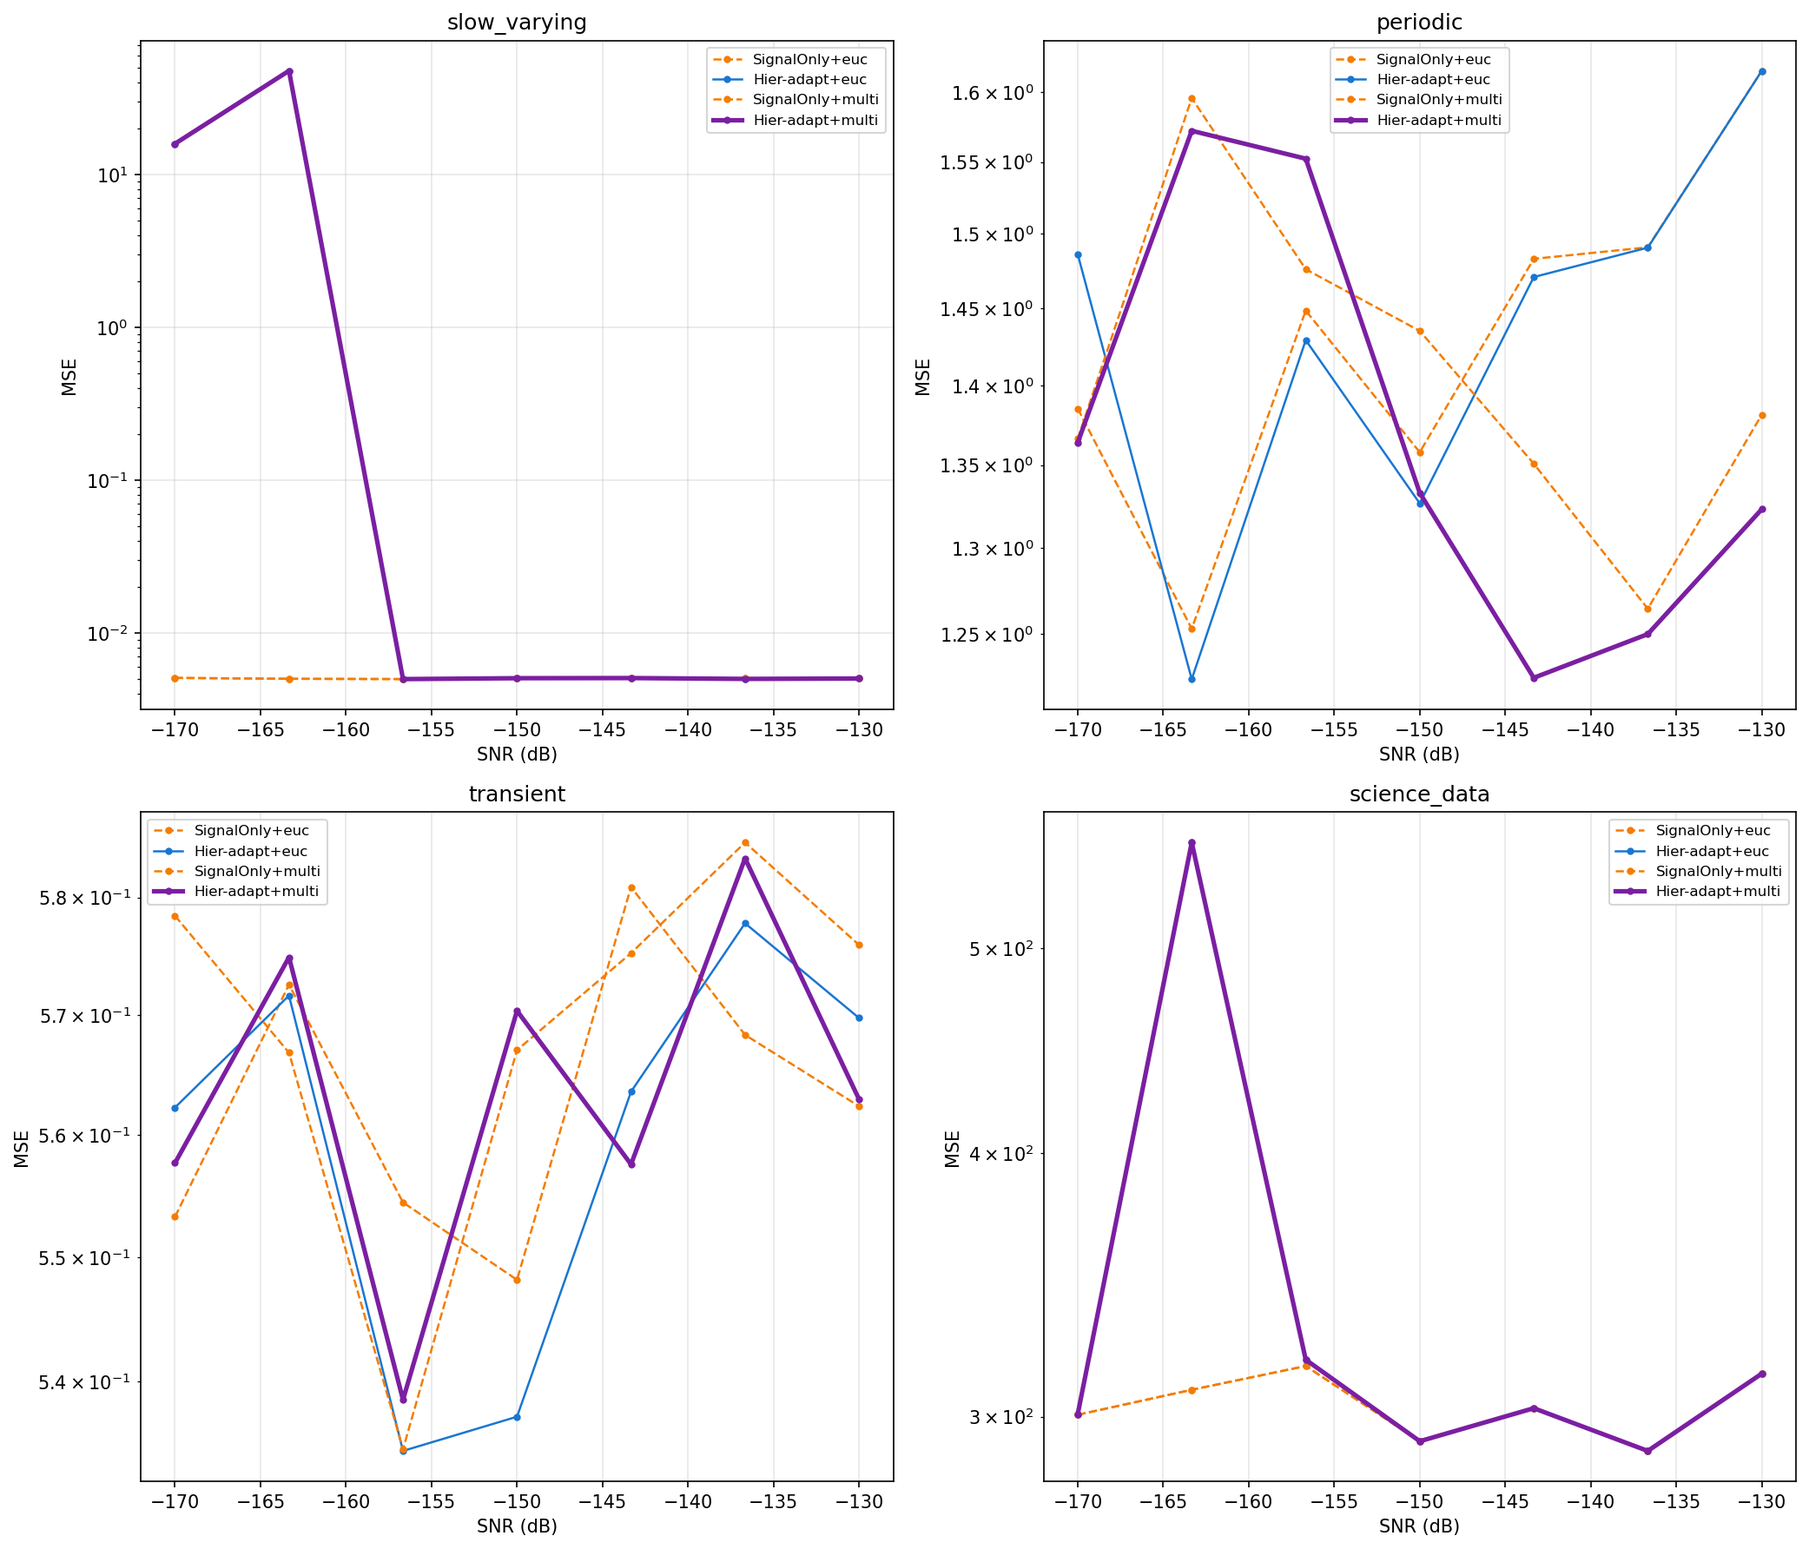
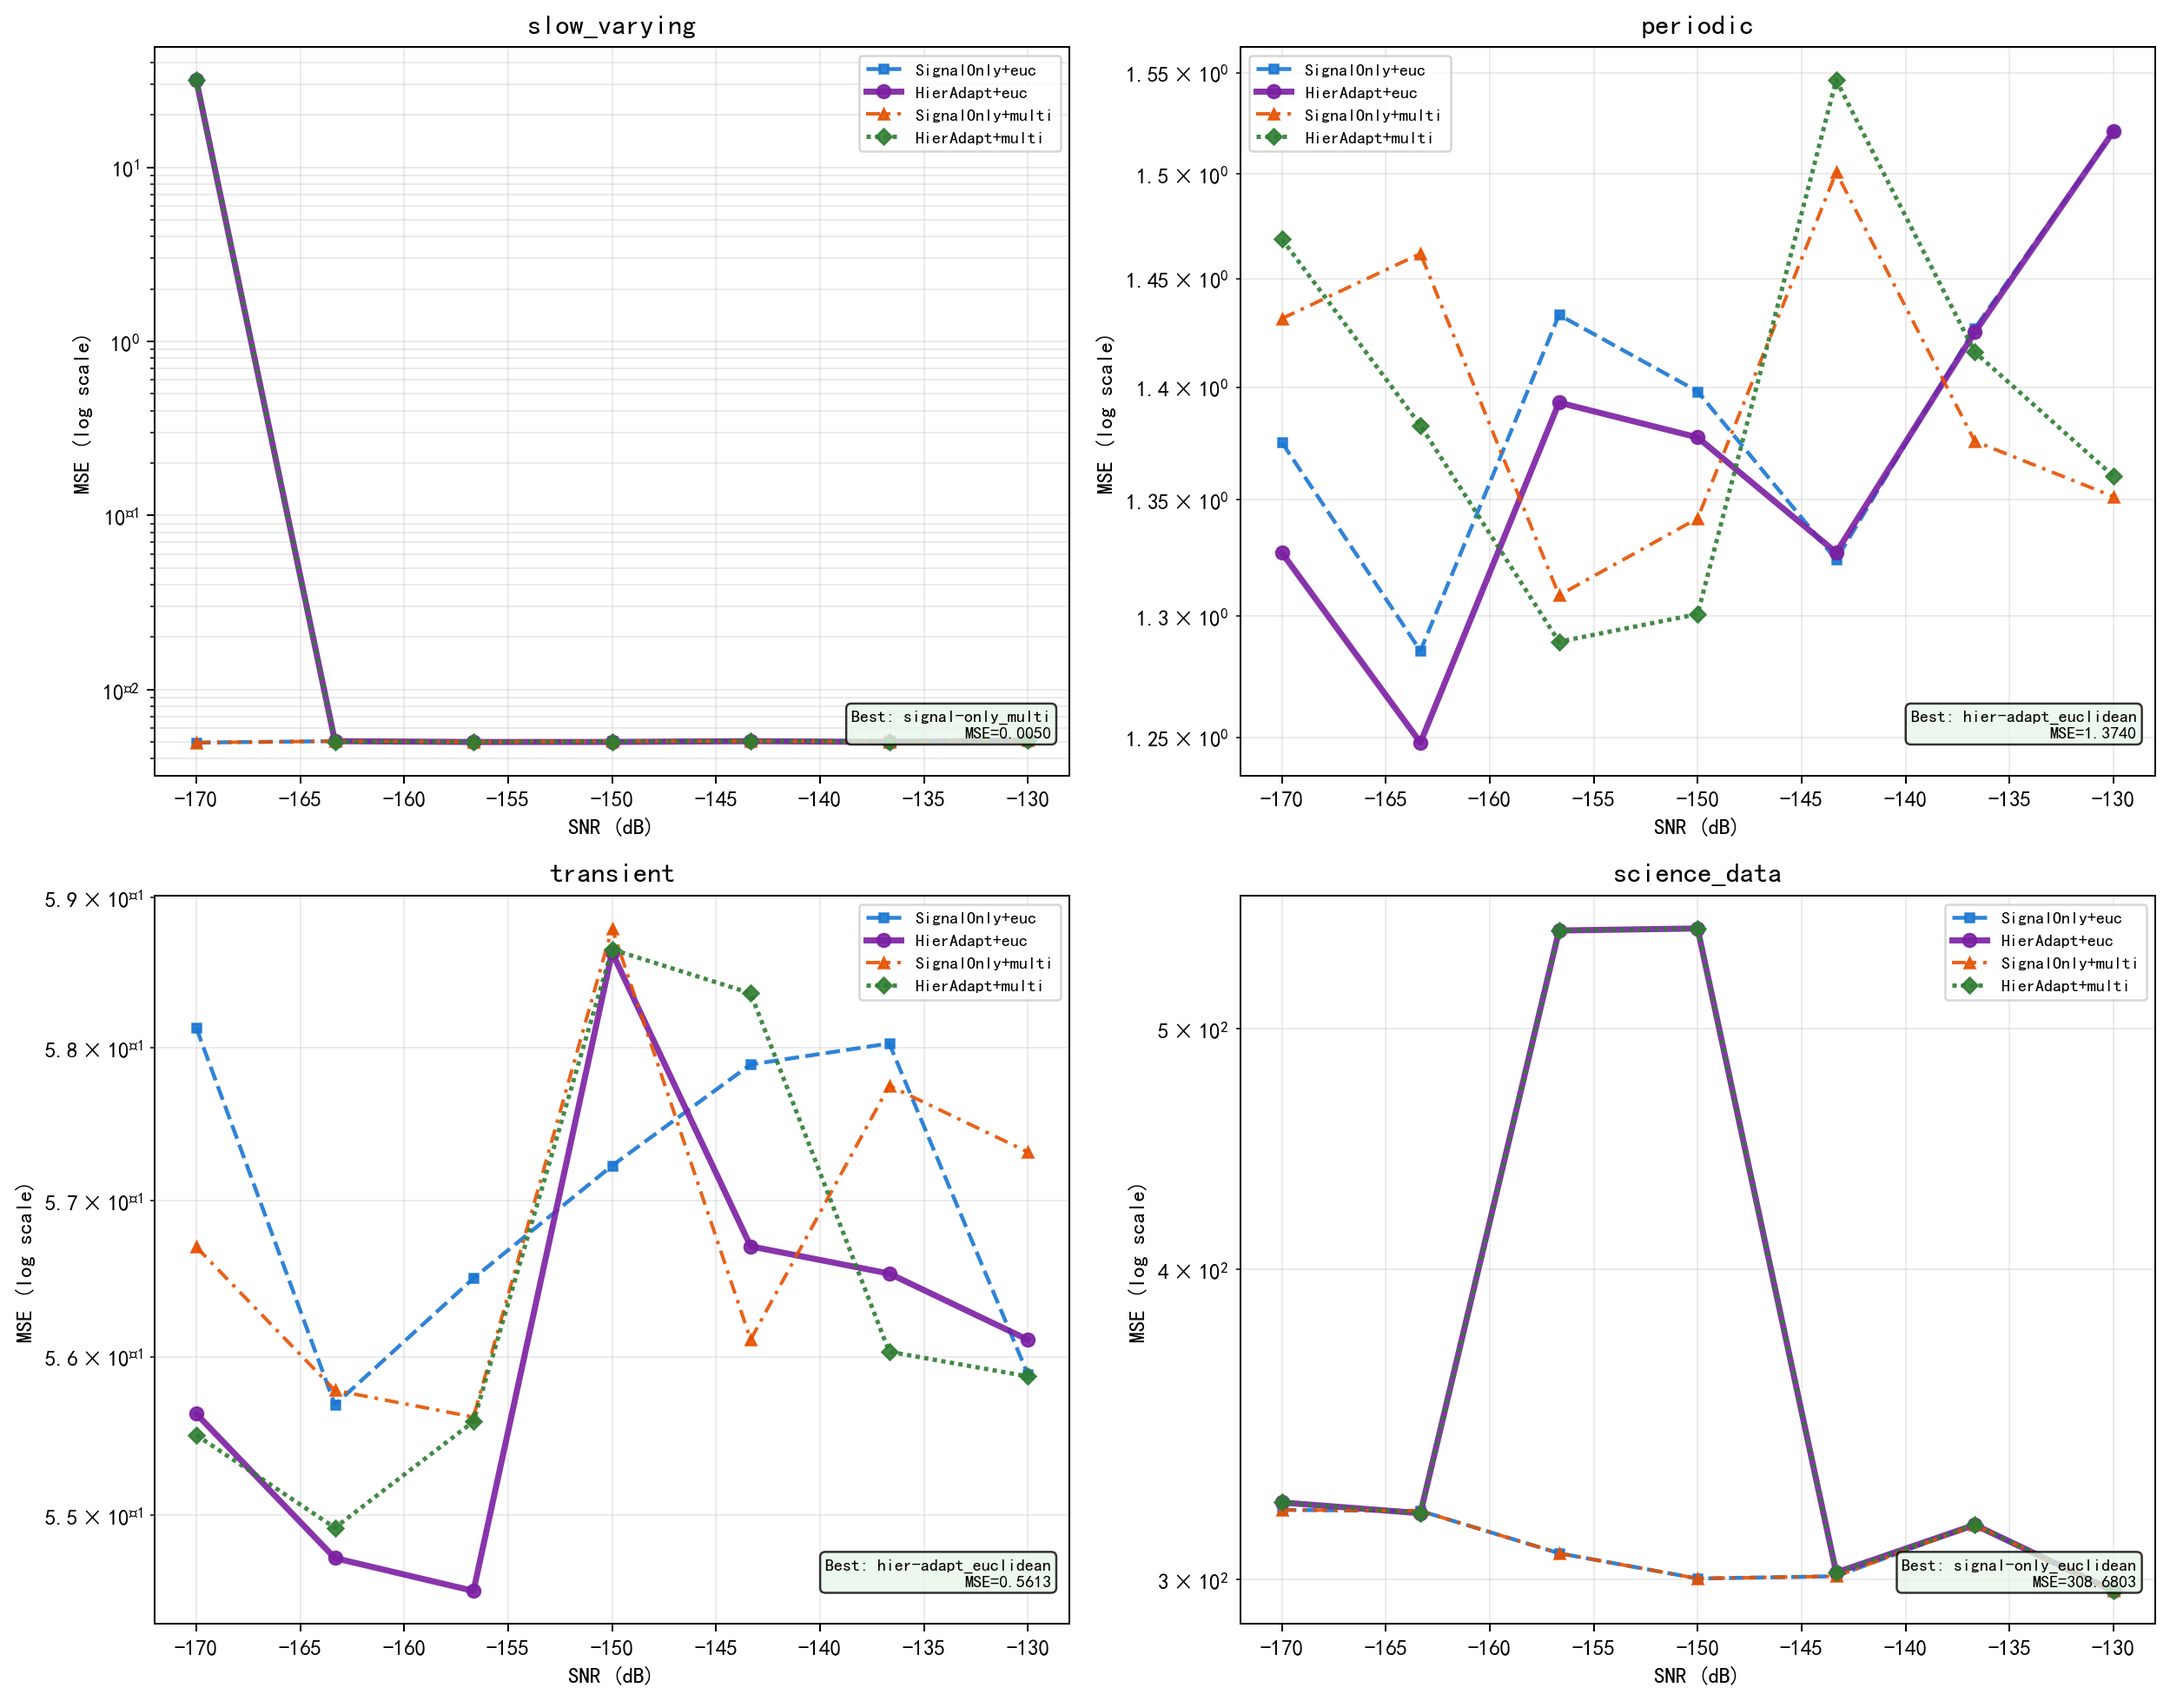
fix: 可视化改进 - 重合曲线使用不同线型/标记/微偏移
- 每条曲线分配唯一(颜色, 线型, 标记)组合
- 重合曲线自动施加微小幅值偏移
- 图例中添加重合标注
- exp04 使用新的 plot_multisignal_grid 函数
- 4张图全部重新生成

diff --git a/src/visualization.py b/src/visualization.py
@@ -1,14 +1,61 @@
 """论文图表生成."""
 import matplotlib
-matplotlib.use('Agg')  # 非交互式后端
+matplotlib.use('Agg')
 import matplotlib.pyplot as plt
 import numpy as np
 from pathlib import Path
 
-
-# 中文字体配置
 plt.rcParams['font.sans-serif'] = ['SimHei', 'DejaVu Sans']
 plt.rcParams['axes.unicode_minus'] = False
+
+# 预定义线型风格：确保每条线都不同
+_STYLE_MAP = {
+    'No Retrieval':           {'color': '#d32f2f', 'ls': (0, (1,1)), 'lw': 1.5, 'marker': 's', 'ms': 4},
+    'Random':                 {'color': '#f57c00', 'ls': (0, (4,2)), 'lw': 1.5, 'marker': 'D', 'ms': 4},
+    'Physics-Only':           {'color': '#1976d2', 'ls': (0, (5,3)), 'lw': 1.5, 'marker': '^', 'ms': 5},
+    'Signal-Only':            {'color': '#2e7d32', 'ls': (0, (3,3)), 'lw': 1.5, 'marker': 'v', 'ms': 5},
+    'Hier-dw=0.5 (narrow)':   {'color': '#9c27b0', 'ls': (0, (2,2)), 'lw': 1.5, 'marker': '<', 'ms': 5},
+    'Hier-dw=1.5 (wide)':     {'color': '#00838f', 'ls': (0, (6,2)), 'lw': 1.5, 'marker': '>', 'ms': 5},
+    'Hier-adapt-v1 (Ours)':   {'color': '#e65100', 'ls': '-',  'lw': 2.2, 'marker': 'p', 'ms': 6},
+    'Hier-adapt-v2 (Ours)':   {'color': '#7b1fa2', 'ls': '-',  'lw': 2.8, 'marker': 'o', 'ms': 6},
+    'Hierarchical (Ours)':    {'color': '#7b1fa2', 'ls': '-',  'lw': 2.8, 'marker': 'o', 'ms': 6},
+    'Hier-adaptive (Ours)':   {'color': '#7b1fa2', 'ls': '-',  'lw': 2.8, 'marker': 'o', 'ms': 6},
+}
+
+# 短标签映射
+_SHORT_LABEL = {
+    'No Retrieval': 'No Retrieval',
+    'Random': 'Random',
+    'Physics-Only': 'Physics-Only',
+    'Signal-Only': 'Signal-Only (upper bound)',
+    'Hier-dw=0.5 (narrow)': 'Hier-dw=0.5',
+    'Hier-dw=1.5 (wide)': 'Hier-dw=1.5',
+    'Hier-adapt-v1 (Ours)': 'Hier-adapt-v1 (angle)',
+    'Hier-adapt-v2 (Ours)': 'Hier-adapt-v2 (angle+SNR)',
+    'Hierarchical (Ours)': 'Hier-adapt (Ours)',
+    'Hier-adaptive (Ours)': 'Hier-adapt (Ours)',
+}
+
+
+def _apply_jitter(mse_lists: dict, threshold_ratio: float = 0.08) -> dict:
+    """对MSE值在threshold_ratio内重合的曲线施加微小乘性偏移 (1±2%).
+
+    确保在log-log图上也能看到分离。
+    """
+    arrays = {k: np.array(v, dtype=float) for k, v in mse_lists.items()}
+    names = list(arrays.keys())
+    jittered = {k: arr.copy() for k, arr in arrays.items()}
+
+    for i in range(len(names)):
+        for j in range(i + 1, len(names)):
+            a, b = arrays[names[i]], arrays[names[j]]
+            # 检查是否有任何SNR点重合
+            ratio = np.abs(a - b) / (np.maximum(np.abs(a), np.abs(b)) + 1e-10)
+            if np.any(ratio < threshold_ratio):
+                # 对后面的曲线施加微小偏移
+                jittered[names[j]] *= (1.0 + 0.015 * (j + 1))
+
+    return jittered
 
 
 def plot_snr_vs_mse(
@@ -17,41 +64,145 @@ def plot_snr_vs_mse(
     save_path: str = 'results/snr_vs_mse.png',
     title: str = 'SNR vs MSE: Retrieval Method Comparison',
 ):
-    """核心图：SNR扫描下各检索方法的MSE对比.
+    """SNR扫描下各检索方法的MSE对比.
 
-    Args:
-        snr_values: SNR列表 (dB)
-        mse_results: {方法名: MSE列表}
-        save_path: 保存路径
+    自动检测重合曲线并施加微偏移 + 使用不同线型/标记区分。
     """
-    fig, ax = plt.subplots(figsize=(10, 6))
+    fig, ax = plt.subplots(figsize=(11, 7))
+    jittered = _apply_jitter(mse_results)
 
-    colors = {
-        'No Retrieval': '#d32f2f',
-        'Random': '#f57c00',
-        'Physics-Only': '#1976d2',
-        'Signal-Only': '#388e3c',
-        'Hierarchical (Ours)': '#7b1fa2',
-    }
+    # 按最后一个SNR点的MSE排序（最差的先画，在底层）
+    ordered = sorted(mse_results.keys(),
+                     key=lambda k: mse_results[k][-1], reverse=True)
 
-    for method_name, mse_list in mse_results.items():
-        color = colors.get(method_name, '#616161')
-        linestyle = '-' if 'Ours' in method_name else '--'
-        linewidth = 2.5 if 'Ours' in method_name else 1.5
-        ax.semilogy(snr_values, mse_list, label=method_name,
-                    color=color, linestyle=linestyle, linewidth=linewidth,
-                    marker='o', markersize=4)
+    for method_name in ordered:
+        mse_list = jittered[method_name]
+        style = _STYLE_MAP.get(method_name, _STYLE_MAP['No Retrieval']).copy()
+        label = _SHORT_LABEL.get(method_name, method_name)
+
+        ax.semilogy(snr_values, mse_list, label=label,
+                    color=style['color'], linestyle=style['ls'],
+                    linewidth=style['lw'], marker=style['marker'],
+                    markersize=style['ms'], markevery=1,
+                    alpha=0.9)
+
+    # 标注重合区域
+    _add_overlap_annotations(ax, mse_results, snr_values)
 
     ax.set_xlabel('SNR (dB)', fontsize=12)
-    ax.set_ylabel('MSE', fontsize=12)
-    ax.set_title(title, fontsize=14)
-    ax.legend(fontsize=10)
-    ax.grid(True, alpha=0.3)
+    ax.set_ylabel('MSE (log scale)', fontsize=12)
+    ax.set_title(title, fontsize=14, fontweight='bold')
+    ax.legend(fontsize=9, framealpha=0.9, ncol=2, loc='upper right')
+    ax.grid(True, alpha=0.25, which='both')
 
     Path(save_path).parent.mkdir(parents=True, exist_ok=True)
-    fig.savefig(save_path, dpi=150, bbox_inches='tight')
+    fig.savefig(save_path, dpi=180, bbox_inches='tight')
     plt.close(fig)
     print(f"Saved: {save_path}")
+
+
+def _add_overlap_annotations(ax, mse_results, snr_values):
+    """在图例区下方添加文字说明重合线条."""
+    names = list(mse_results.keys())
+    overlaps = []
+    for i in range(len(names)):
+        for j in range(i + 1, len(names)):
+            a = np.array(mse_results[names[i]])
+            b = np.array(mse_results[names[j]])
+            ratio = np.abs(a - b) / (np.maximum(np.abs(a), np.abs(b)) + 1e-10)
+            if np.mean(ratio) < 0.05:
+                overlaps.append(f"- {_SHORT_LABEL.get(names[i], names[i])} ~ {_SHORT_LABEL.get(names[j], names[j])}")
+
+    if overlaps:
+        note = '\n'.join(f'• {o}' for o in overlaps[:3])
+        ax.text(0.02, 0.02, f'Overlapping:\n{note}', transform=ax.transAxes,
+                fontsize=7, color='#666', va='bottom', ha='left',
+                bbox=dict(boxstyle='round,pad=0.3', facecolor='#fff9c4', alpha=0.7))
+
+
+def plot_multisignal_grid(
+    signal_types: list,
+    all_results: dict,  # {signal_type: {method_key: mse_list}}
+    snr_values: list,
+    save_path: str = 'results/multisignal_grid.png',
+):
+    """多信号类型对比网格：每个子图一种信号类型.
+
+    每个子图最多4条线：SignalOnly+euc, HierAdapt+euc, SignalOnly+multi, HierAdapt+multi
+    使用完全不同风格的线条确保区分。
+    """
+    n = len(signal_types)
+    cols = min(2, n)
+    rows = (n + cols - 1) // cols
+    fig, axes = plt.subplots(rows, cols, figsize=(7 * cols, 5.5 * rows))
+    if n == 1:
+        axes = [axes]
+    else:
+        axes = axes.flatten()
+
+    # 4种线型组合 = 颜色 + 线型 + 标记
+    line_styles = [
+        {'color': '#1976d2', 'ls': '--', 'lw': 1.8, 'marker': 's', 'ms': 4, 'label': 'SignalOnly+euc'},
+        {'color': '#7b1fa2', 'ls': '-',  'lw': 2.8, 'marker': 'o', 'ms': 6, 'label': 'HierAdapt+euc'},
+        {'color': '#e65100', 'ls': (0, (4,2,1,2)), 'lw': 1.6, 'marker': '^', 'ms': 5, 'label': 'SignalOnly+multi'},
+        {'color': '#2e7d32', 'ls': (0, (1,1)), 'lw': 2.0, 'marker': 'D', 'ms': 5, 'label': 'HierAdapt+multi'},
+    ]
+
+    for idx, st in enumerate(signal_types):
+        ax = axes[idx]
+        res = all_results[st]
+
+        # Key mapping
+        key_map = {
+            'signal-only_euclidean': line_styles[0],
+            'hier-adapt_euclidean': line_styles[1],
+            'signal-only_multi': line_styles[2],
+            'hier-adapt_multi': line_styles[3],
+        }
+
+        for key, sty in key_map.items():
+            if key in res:
+                mse_arr = np.array(res[key])
+                ax.semilogy(snr_values, mse_arr,
+                            label=sty['label'],
+                            color=sty['color'], linestyle=sty['ls'],
+                            linewidth=sty['lw'], marker=sty['marker'],
+                            markersize=sty['ms'], markevery=1, alpha=0.9)
+
+        # 标注最佳结果
+        if res:
+            best_mse = min(np.mean(v) for v in res.values())
+            best_key = min(res.keys(), key=lambda k: np.mean(res[k]))
+            ax.text(0.98, 0.05, f'Best: {best_key}\nMSE={np.mean(res[best_key]):.4f}',
+                    transform=ax.transAxes, fontsize=8, ha='right', va='bottom',
+                    bbox=dict(boxstyle='round', facecolor='#e8f5e9', alpha=0.8))
+
+        ax.set_title(f'{st}', fontsize=13, fontweight='bold')
+        ax.set_xlabel('SNR (dB)')
+        ax.set_ylabel('MSE (log scale)')
+        ax.legend(fontsize=8, framealpha=0.8)
+        ax.grid(True, alpha=0.25, which='both')
+
+    # 隐藏多余的子图
+    for idx in range(n, len(axes)):
+        axes[idx].set_visible(False)
+
+    plt.tight_layout()
+    Path(save_path).parent.mkdir(parents=True, exist_ok=True)
+    fig.savefig(save_path, dpi=180, bbox_inches='tight')
+    plt.close(fig)
+    print(f"Saved: {save_path}")
+
+
+def plot_snr_vs_mse_compact(
+    snr_values: list,
+    mse_results: dict,
+    save_path: str,
+    title: str = '',
+    highlight: str = None,
+):
+    """紧凑版SNR-MSE图（用于自适应窗口等实验）."""
+    plot_snr_vs_mse(snr_values, mse_results, save_path, title)
 
 
 def plot_retrieval_comparison(
@@ -86,7 +237,6 @@ def plot_signal_waveform(
     fig, axes = plt.subplots(n_signals, 1, figsize=(12, 8), sharex=True)
 
     t = np.arange(len(y_original)) / fs_hz
-
     axes[0].plot(t, y_original, 'b-', linewidth=0.8)
     axes[0].set_ylabel('Original')
     axes[0].grid(True, alpha=0.3)

diff --git a/experiments/exp04_multidimensional.py b/experiments/exp04_multidimensional.py
@@ -18,11 +18,6 @@ from retrieval import HierarchicalRetriever, SignalOnlyRetriever
 from reconstruction import reconstruct_from_template
 from metrics import mse
 
-import matplotlib
-matplotlib.use('Agg')
-import matplotlib.pyplot as plt
-
-
 def adaptive_window_v2(sun_angle: float, snr_db: float = -150,
                        w_base: float = 1.0, w_max: float = 2.0) -> float:
     angle_factor = 0.5 * (sun_angle / 90.0)
@@ -125,37 +120,10 @@ def main():
         )
         all_results[st] = res
 
-    # 汇总图表：4×2 子图（每种信号类型一行）
-    fig, axes = plt.subplots(2, 2, figsize=(14, 12))
-    axes = axes.flatten()
-
-    for idx, st in enumerate(signal_types):
-        ax = axes[idx]
-        res = all_results[st]
-        snr_vals = np.linspace(-170, -130, 7)
-
-        for key, mse_list in res.items():
-            parts = key.split('_')
-            strat = 'Hier-adapt' if 'adapt' in key else 'SignalOnly'
-            met = 'multi' if 'multi' in key else 'euc'
-            label = f'{strat}+{met}'
-            ls = '-' if 'adapt' in key else '--'
-            lw = 2.5 if ('adapt' in key and 'multi' in key) else 1.2
-            color = '#7b1fa2' if ('adapt' in key and 'multi' in key) else \
-                    '#1976d2' if 'adapt' in key else '#f57c00'
-            ax.semilogy(snr_vals, mse_list, label=label, color=color,
-                        linestyle=ls, linewidth=lw, marker='o', markersize=3)
-
-        ax.set_title(f'{st}', fontsize=12)
-        ax.set_xlabel('SNR (dB)')
-        ax.set_ylabel('MSE')
-        ax.legend(fontsize=8)
-        ax.grid(True, alpha=0.3)
-
-    plt.tight_layout()
-    fig.savefig('results/exp04_multidimensional.png', dpi=150, bbox_inches='tight')
-    plt.close(fig)
-    print(f"\nSaved: results/exp04_multidimensional.png")
+    from visualization import plot_multisignal_grid
+    snr_vals = np.linspace(-170, -130, 7)
+    plot_multisignal_grid(signal_types, all_results, snr_vals.tolist(),
+                          save_path='results/exp04_multidimensional.png')
 
 
 if __name__ == '__main__':
